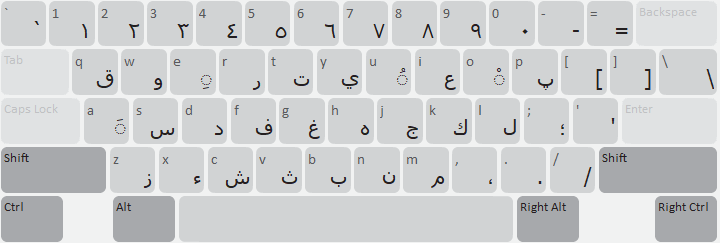
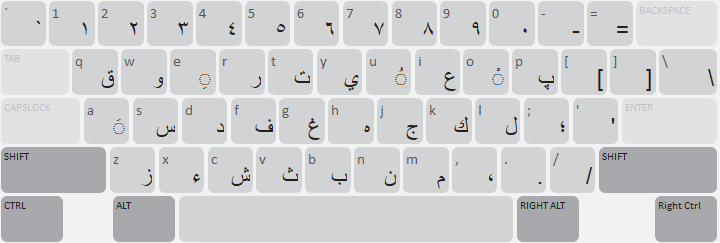
[sil_arabic_phonetic] add three characters

diff --git a/release/sil/sil_arabic_phonetic/HISTORY.md b/release/sil/sil_arabic_phonetic/HISTORY.md
@@ -1,5 +1,8 @@
 # Arabic Phonetic (SIL) Keyboard Change History
 
+## 1.3 (27 Jan 2026)
+* Add `ٖ`, `ٗ`, `ٰ` to Shift O, Shift I, and Shift U.
+
 ## 1.2 (13 Jan 2026)
 * Add `ٱ` to Shift + E
 
